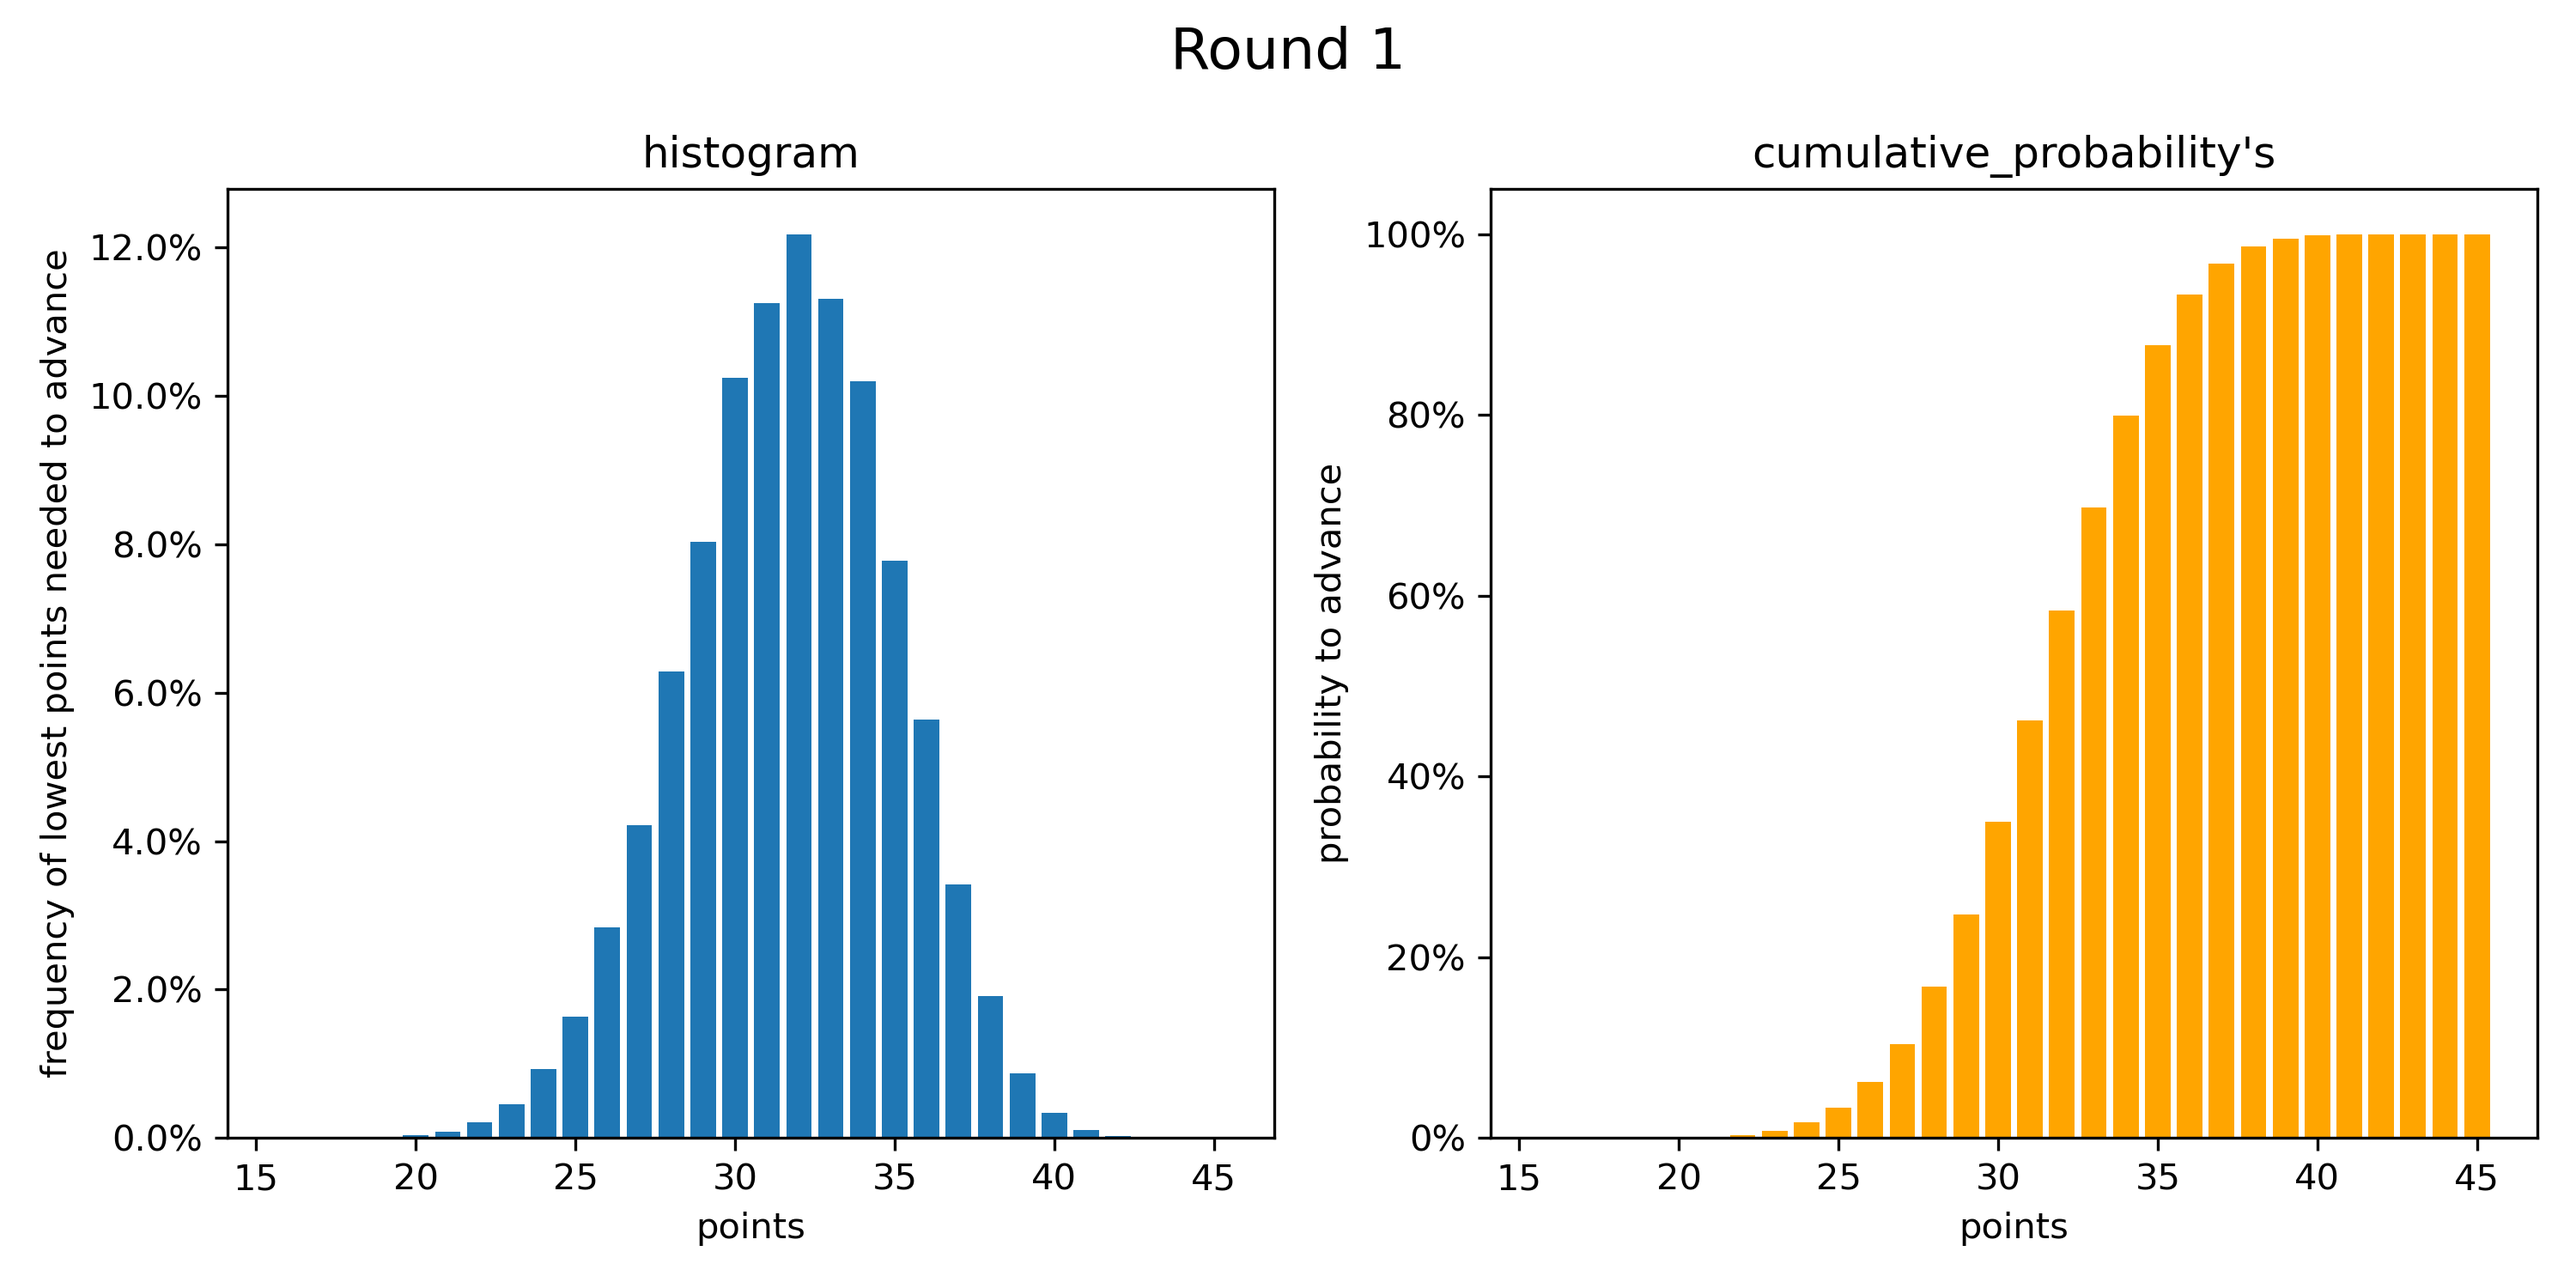
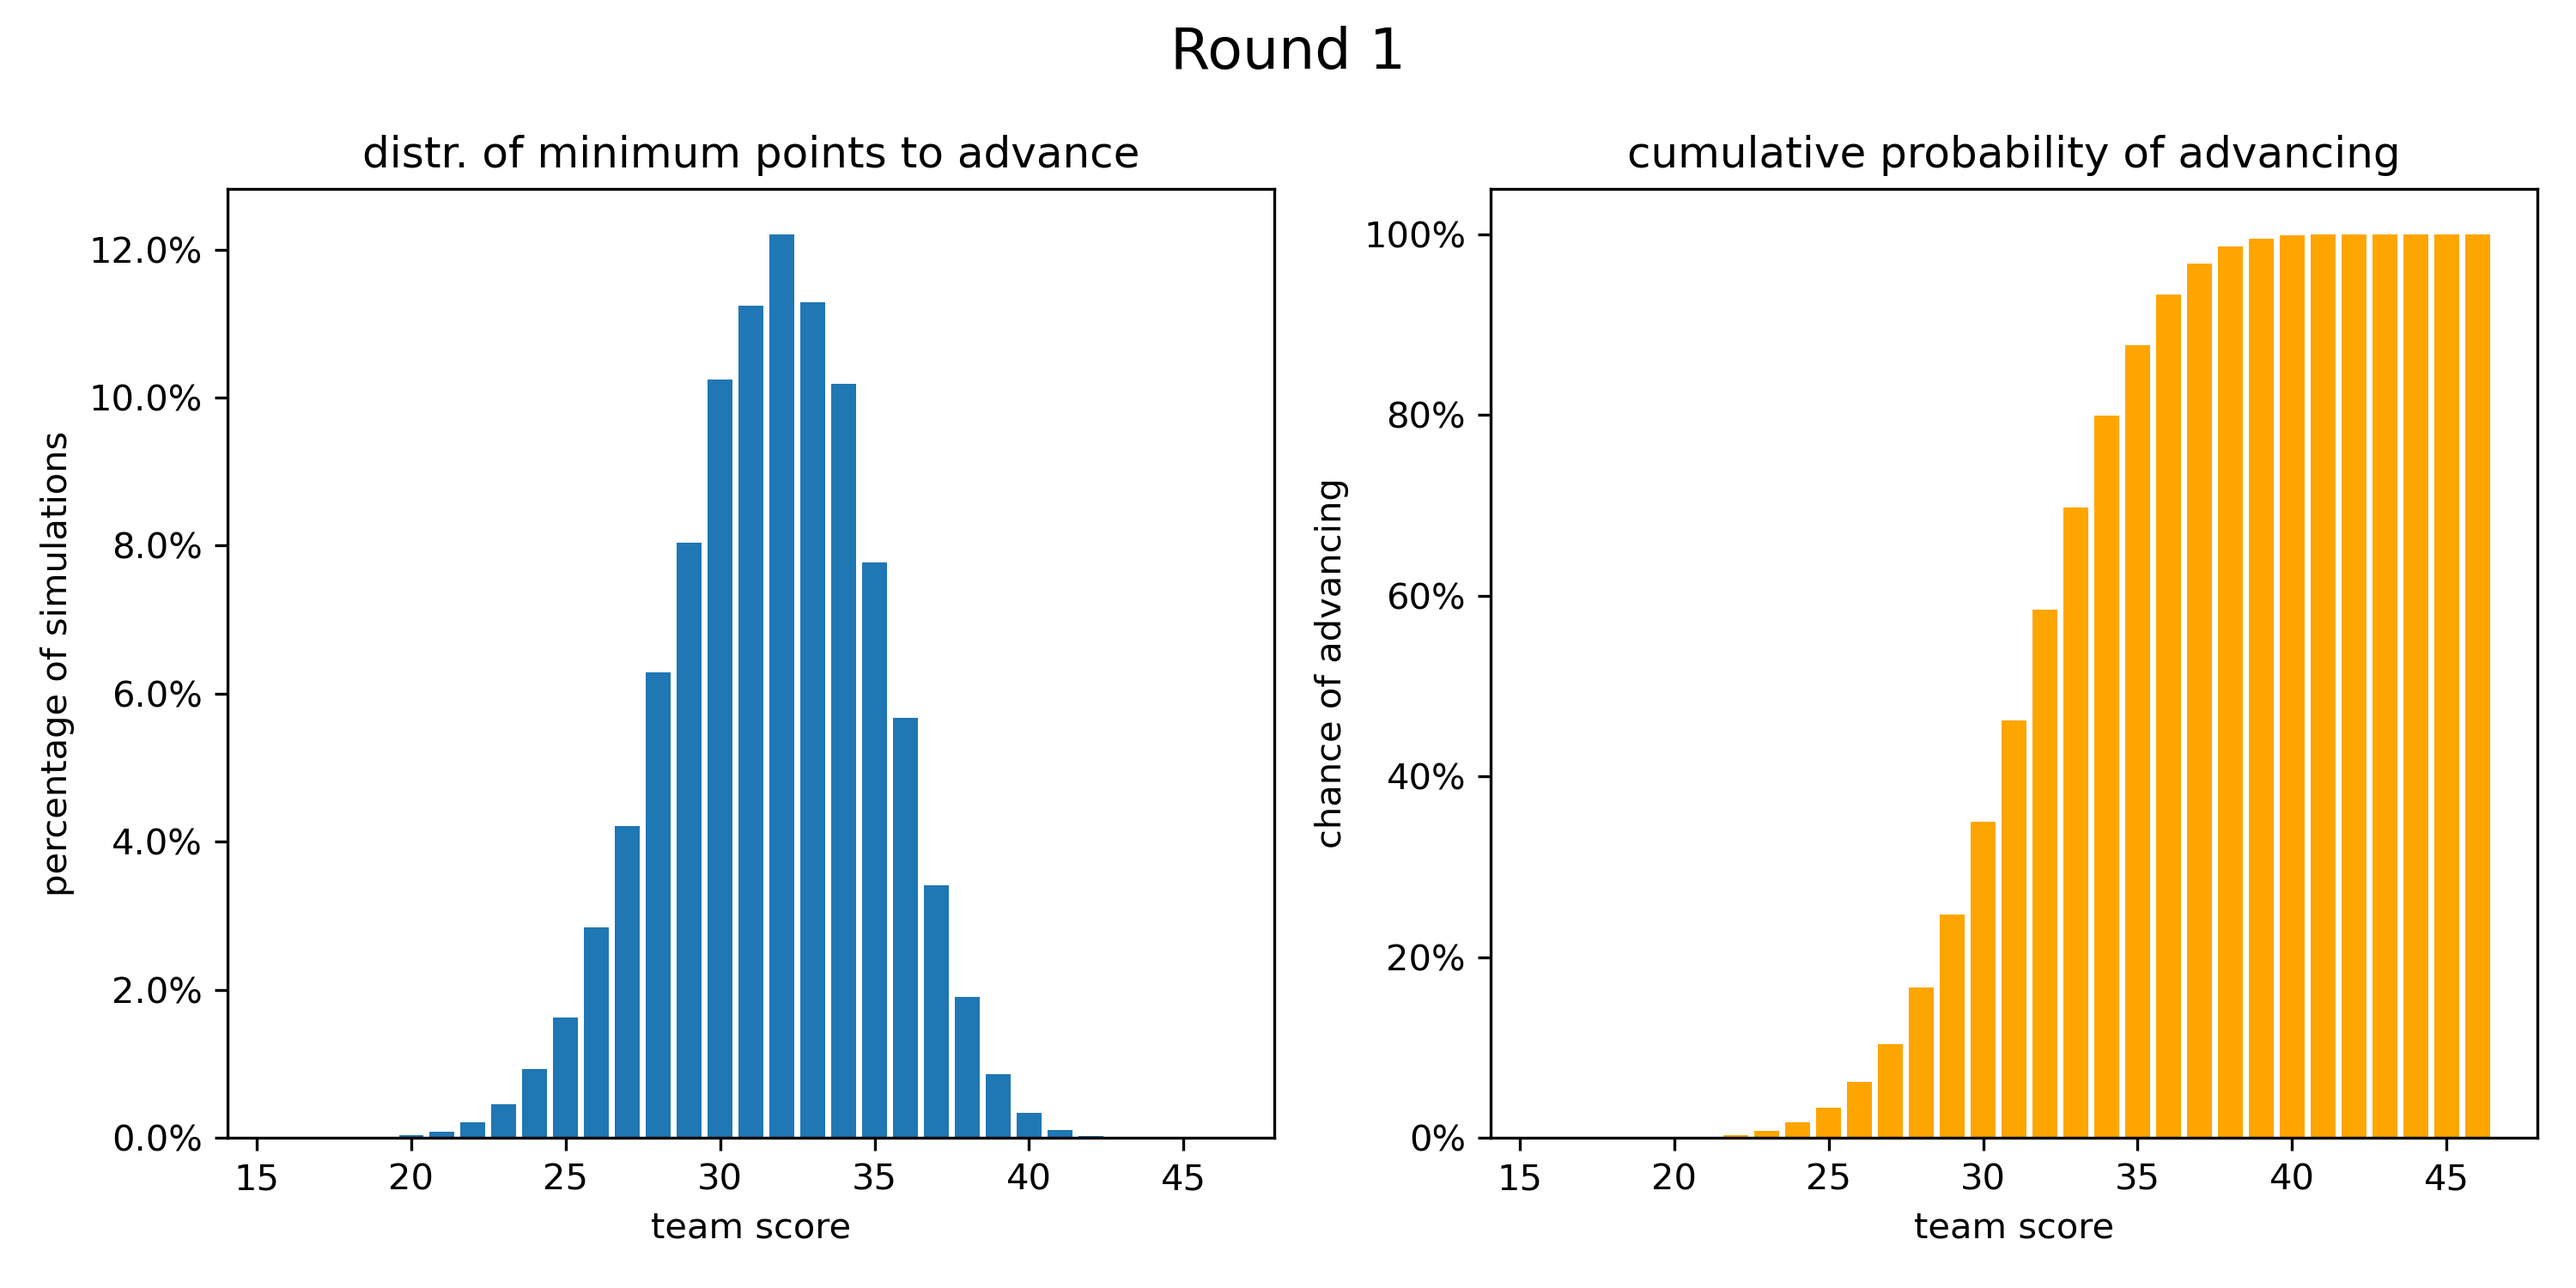
2nd commit

diff --git a/sim.py b/sim.py
@@ -29,20 +29,20 @@ def calculate_histogram(no_tries, no_teams, no_advancing_teams, round_no):
     # Get non-zero indexes for better plotting
     non_zero_indexes = np.nonzero(hist_plot)[0]
 
-    # Make plot
+    # plot
     fig, (ax1, ax2) = plt.subplots(1, 2, figsize=(10, 5))
 
     ax1.bar(non_zero_indexes + 1, hist_plot[non_zero_indexes])
-    ax1.set_title('histogram')
-    ax1.set_xlabel('points')
-    ax1.set_ylabel('frequency of lowest points needed to advance')
+    ax1.set_title('distr. of minimum points to advance')
+    ax1.set_xlabel('team score')
+    ax1.set_ylabel('percentage of simulations')
 
     ax2.bar(non_zero_indexes + 1, hist_cumulative[non_zero_indexes], color='orange')
-    ax2.set_title("cumulative_probability's")
-    ax2.set_xlabel('points')
-    ax2.set_ylabel('probability to advance')  # Update the y-axis label
+    ax2.set_title("cumulative probability of advancing")
+    ax2.set_xlabel('team score')
+    ax2.set_ylabel('chance of advancing')
 
-    # Add main title
+    # Main title
     main_title = f"Round {round_no}"
     fig.suptitle(main_title, fontsize=16)
 

diff --git a/README.md b/README.md
@@ -7,3 +7,8 @@ The following can be variied in main:
 - round number for the diagram title
 
 The images provided by the script help in estimating how likely it is to get qualified if you are behind the finish line and waiting for the round to end. This way, you can decide if it is worth to wait or not.
+
+### Example
+Here is a diagram for a common round 1 in fall guys coop mode:
+![Histogram showcasing the probability of advancing based on the no of team points](histograms_round_1_10000000_tries.png)
+In this example there is a total of 20 teams of which 14 advance. Looking at the graph one can deduce that you need 34 points to advance with an 80 % likelihood.
